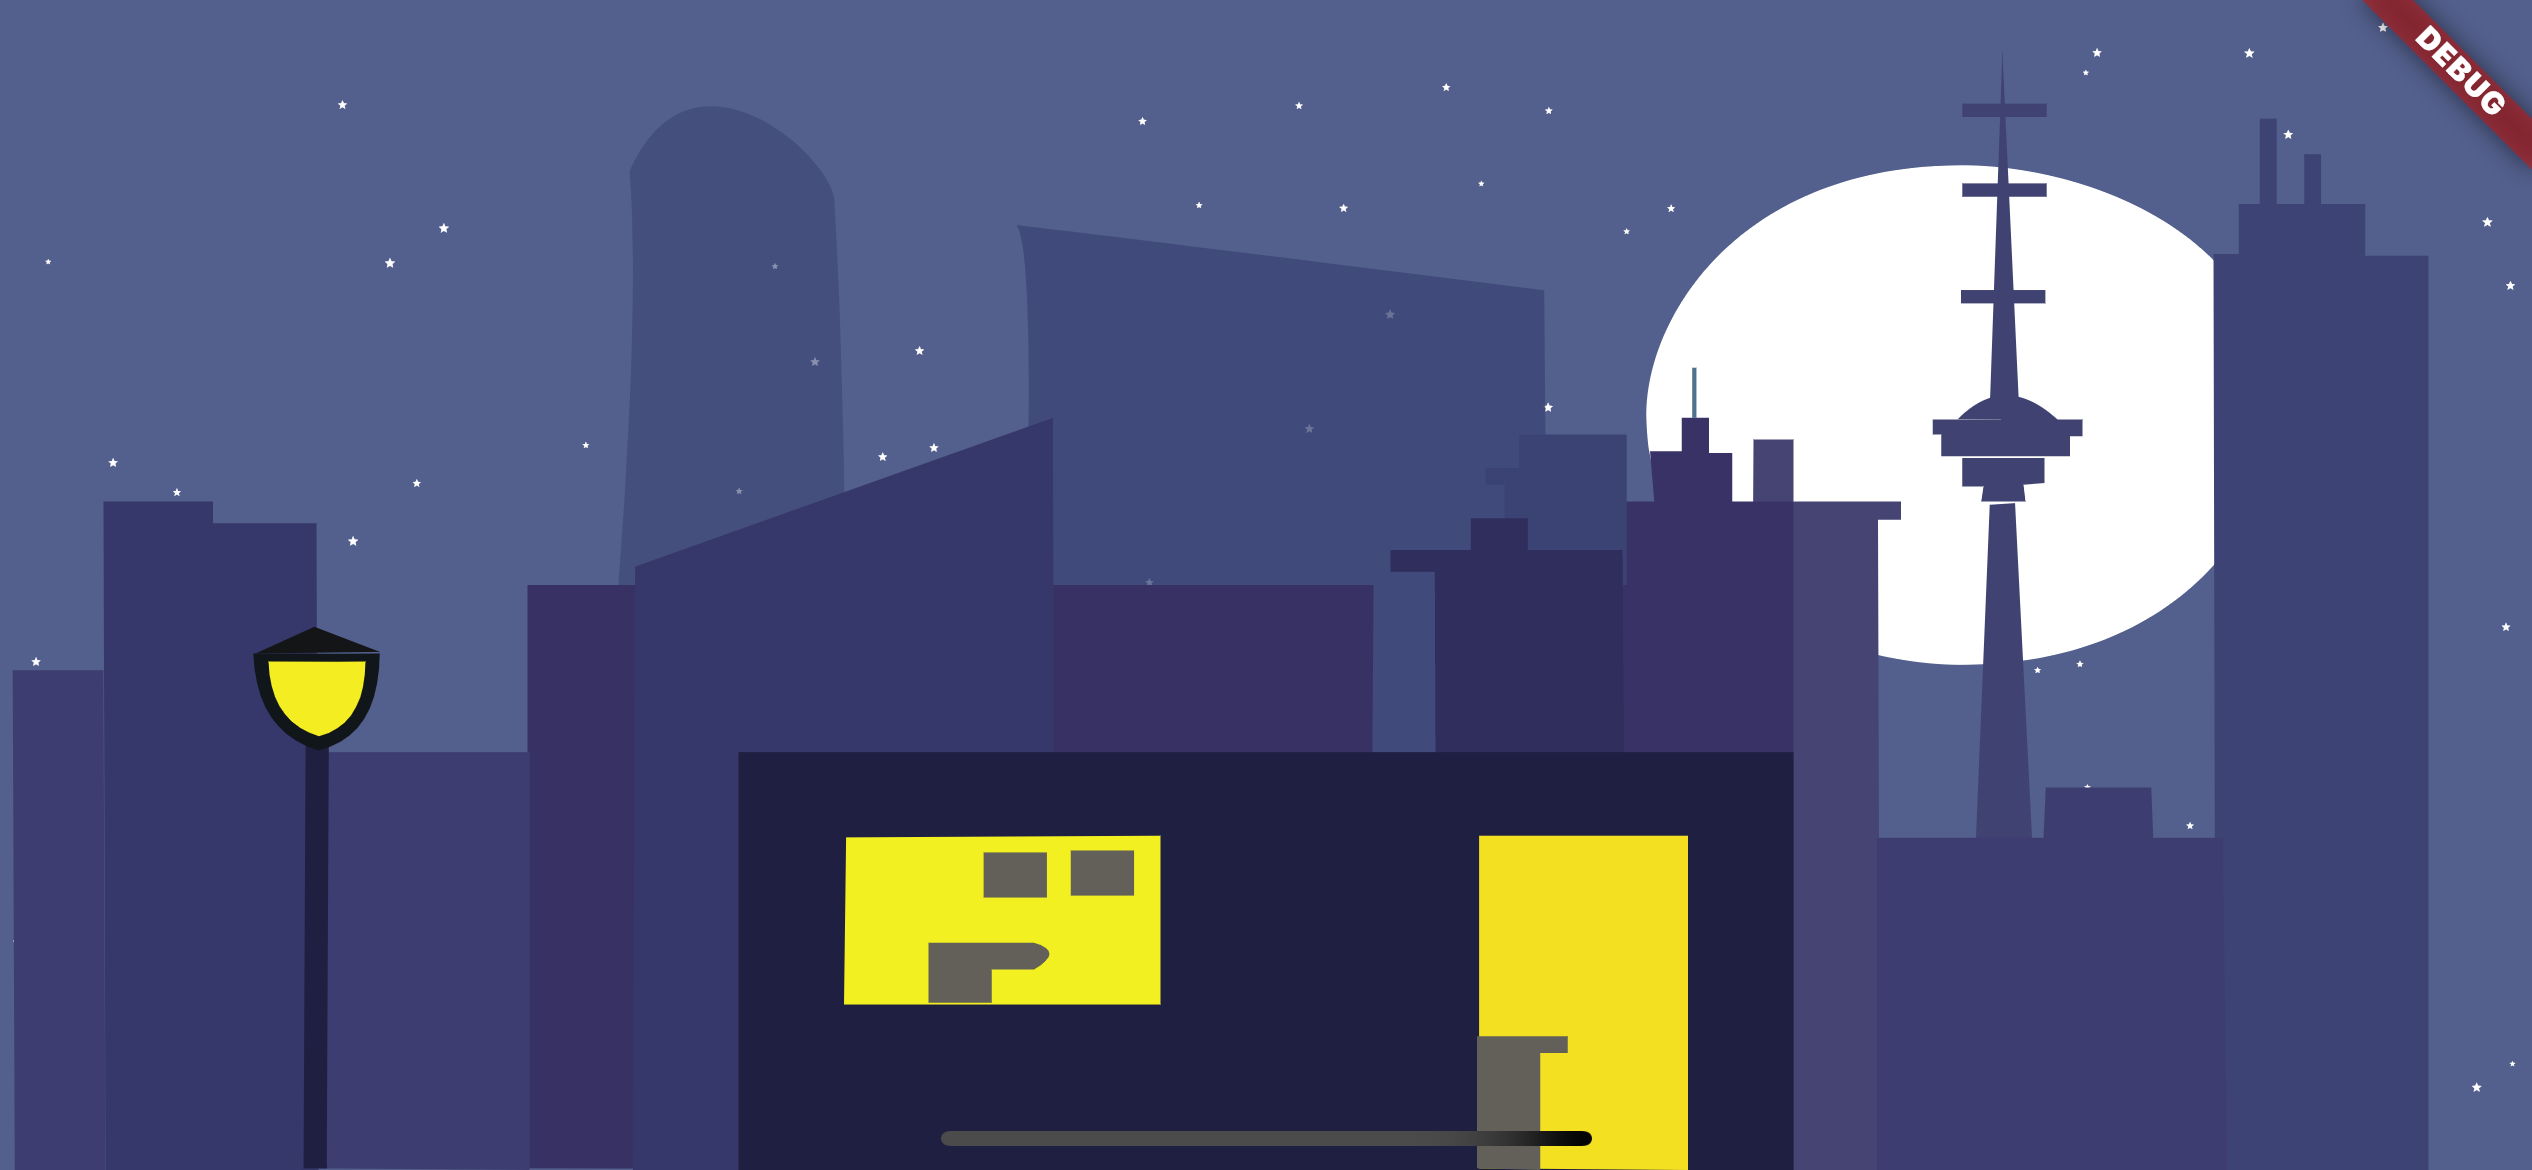
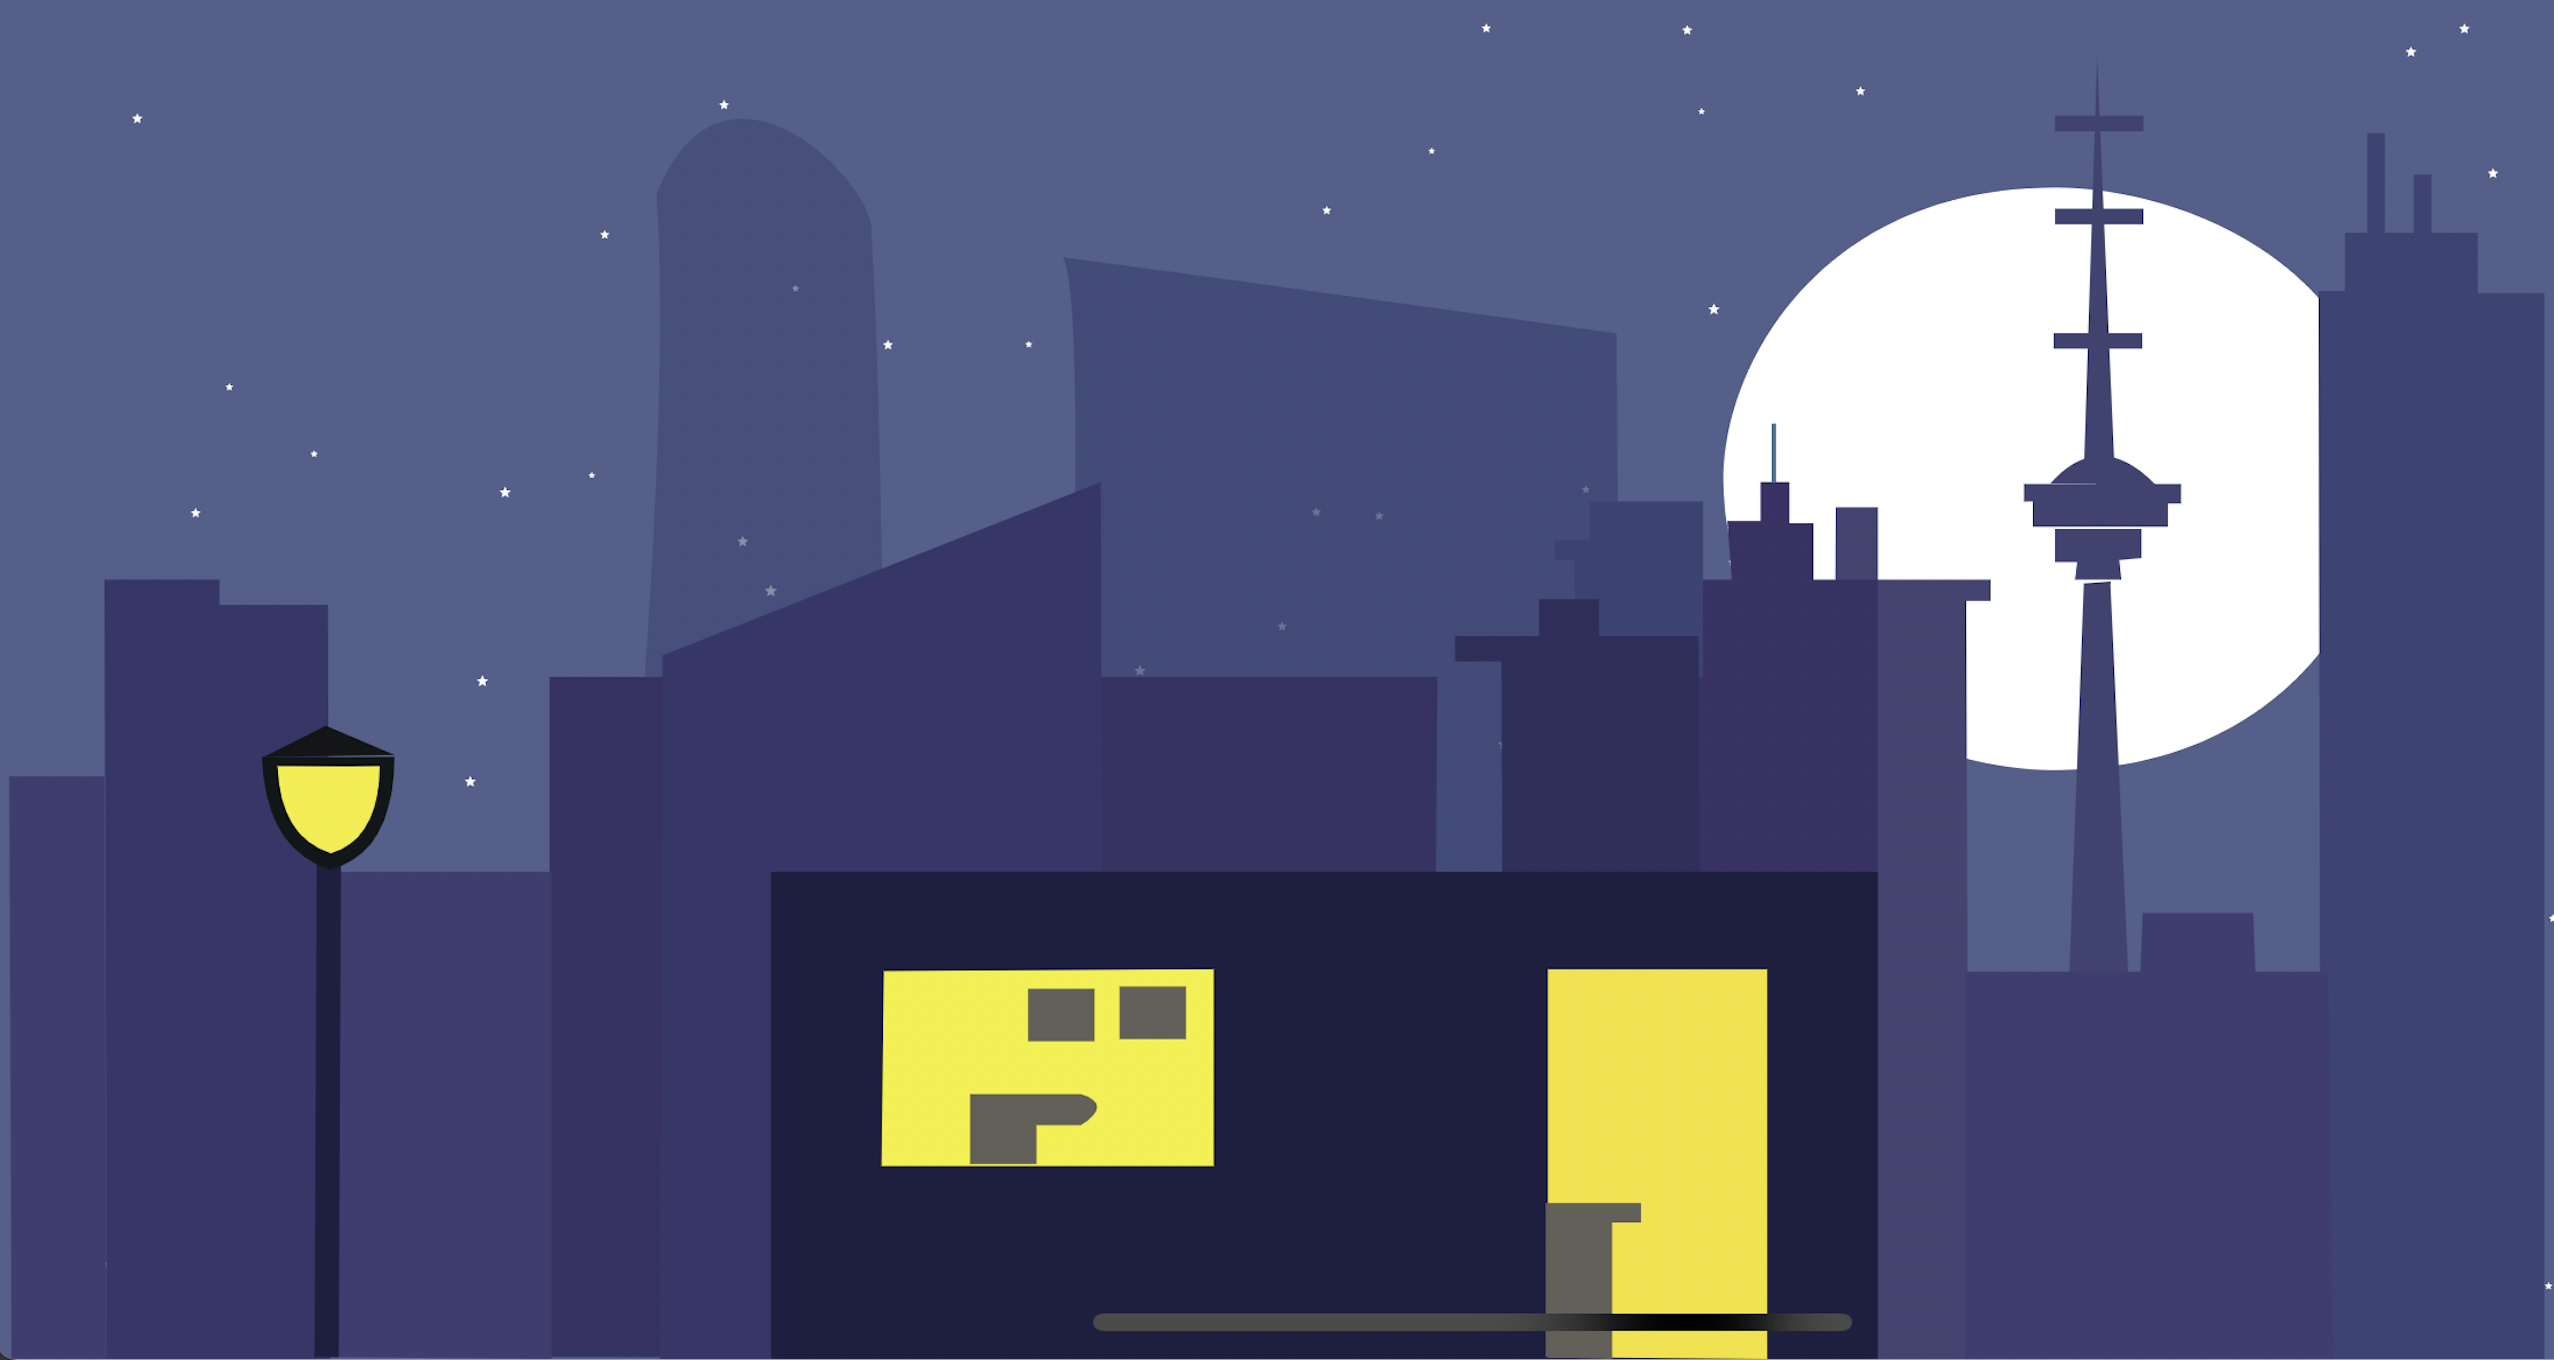
added night city image

diff --git a/lib/ui/night_city/night_city.dart b/lib/ui/night_city/night_city.dart
@@ -38,7 +38,7 @@ class _NightCityState extends State<NightCity> {
 
             CustomPaint(
               size: Size(
-                  MediaQuery.of(context).size.width,(
+                  MediaQuery.of(context).size.width * 0.9,(
                   MediaQuery.of(context).size.width).toDouble()),
               painter: NightCityPainter(),
             ),
